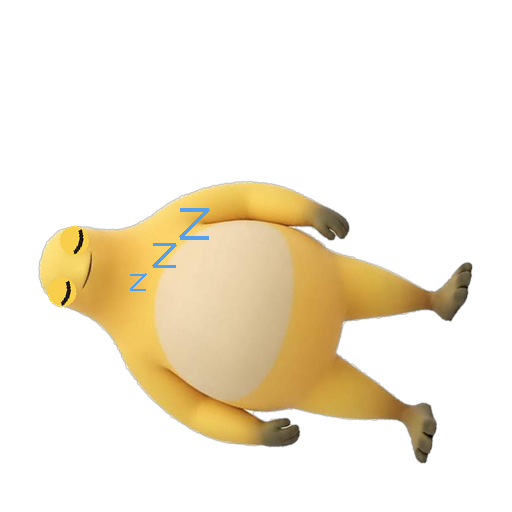
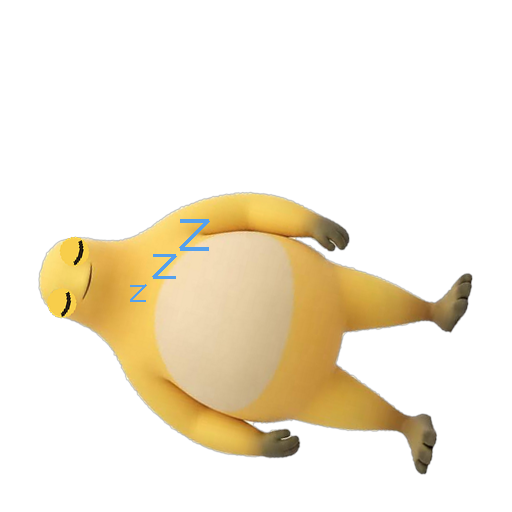
fix(frames): rest the sleeping pose on the floor
The five sleep frames floated 11px above the ground line (bottom y=463
while every other action sits at 474), so the pet dozed in mid air.

- Extend the grounding pass to sleep; it is the same lossless whole-pixel
  translation already used for idle and walk.
- Pin sleep in the frame-pack test alongside idle and walk.

Changed region(s): [[0.0625, 0.3438, 0.9375, 0.9375]]

diff --git a/src/frame-pack.test.ts b/src/frame-pack.test.ts
@@ -154,8 +154,8 @@ describe("frame pack", () => {
     }
   });
 
-  it("plants the support foot for the grounded actions", () => {
-    for (const action of ["idle", "walk"] as const) {
+  it("plants the grounded actions on the floor line", () => {
+    for (const action of ["idle", "walk", "sleep"] as const) {
       for (let index = 0; index < FRAMES_PER_ACTION; index += 1) {
         const file = join(PACK, action, `${String(index).padStart(3, "0")}.png`);
         const { bottom } = opaqueBounds(decodePng(file));

diff --git a/tools/frames/generate.py b/tools/frames/generate.py
@@ -272,6 +272,7 @@ BUILDERS = {
     "sit": build_sit,
     "idle": lambda: build_grounded("idle"),
     "walk": lambda: build_grounded("walk"),
+    "sleep": lambda: build_grounded("sleep"),
 }
 
 
